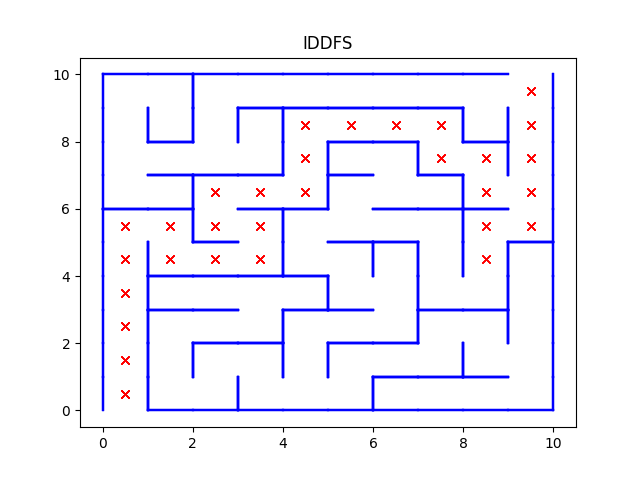
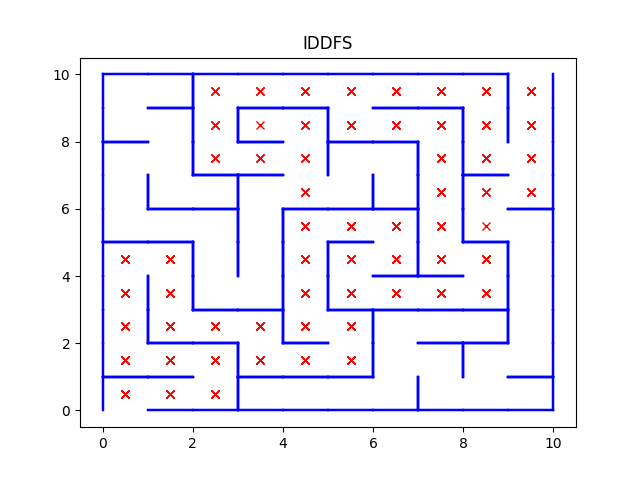
96 x 96 and 10 x 10 mazes are added

diff --git a/main.py b/main.py
@@ -4,7 +4,7 @@ from MazeSolverUCS import MazeSolverUCS
 from MazeSolverAStar import MazeSolverAStar
 from MazeSolverIDDFS import MazeSolverIDDFS
 
-SIZE = 96
+SIZE = 10
 maze = Maze(SIZE)
 maze.createMaze()
 pathma,op = MazeSolverAStar(maze, 0).aStar()  #Manhattan
